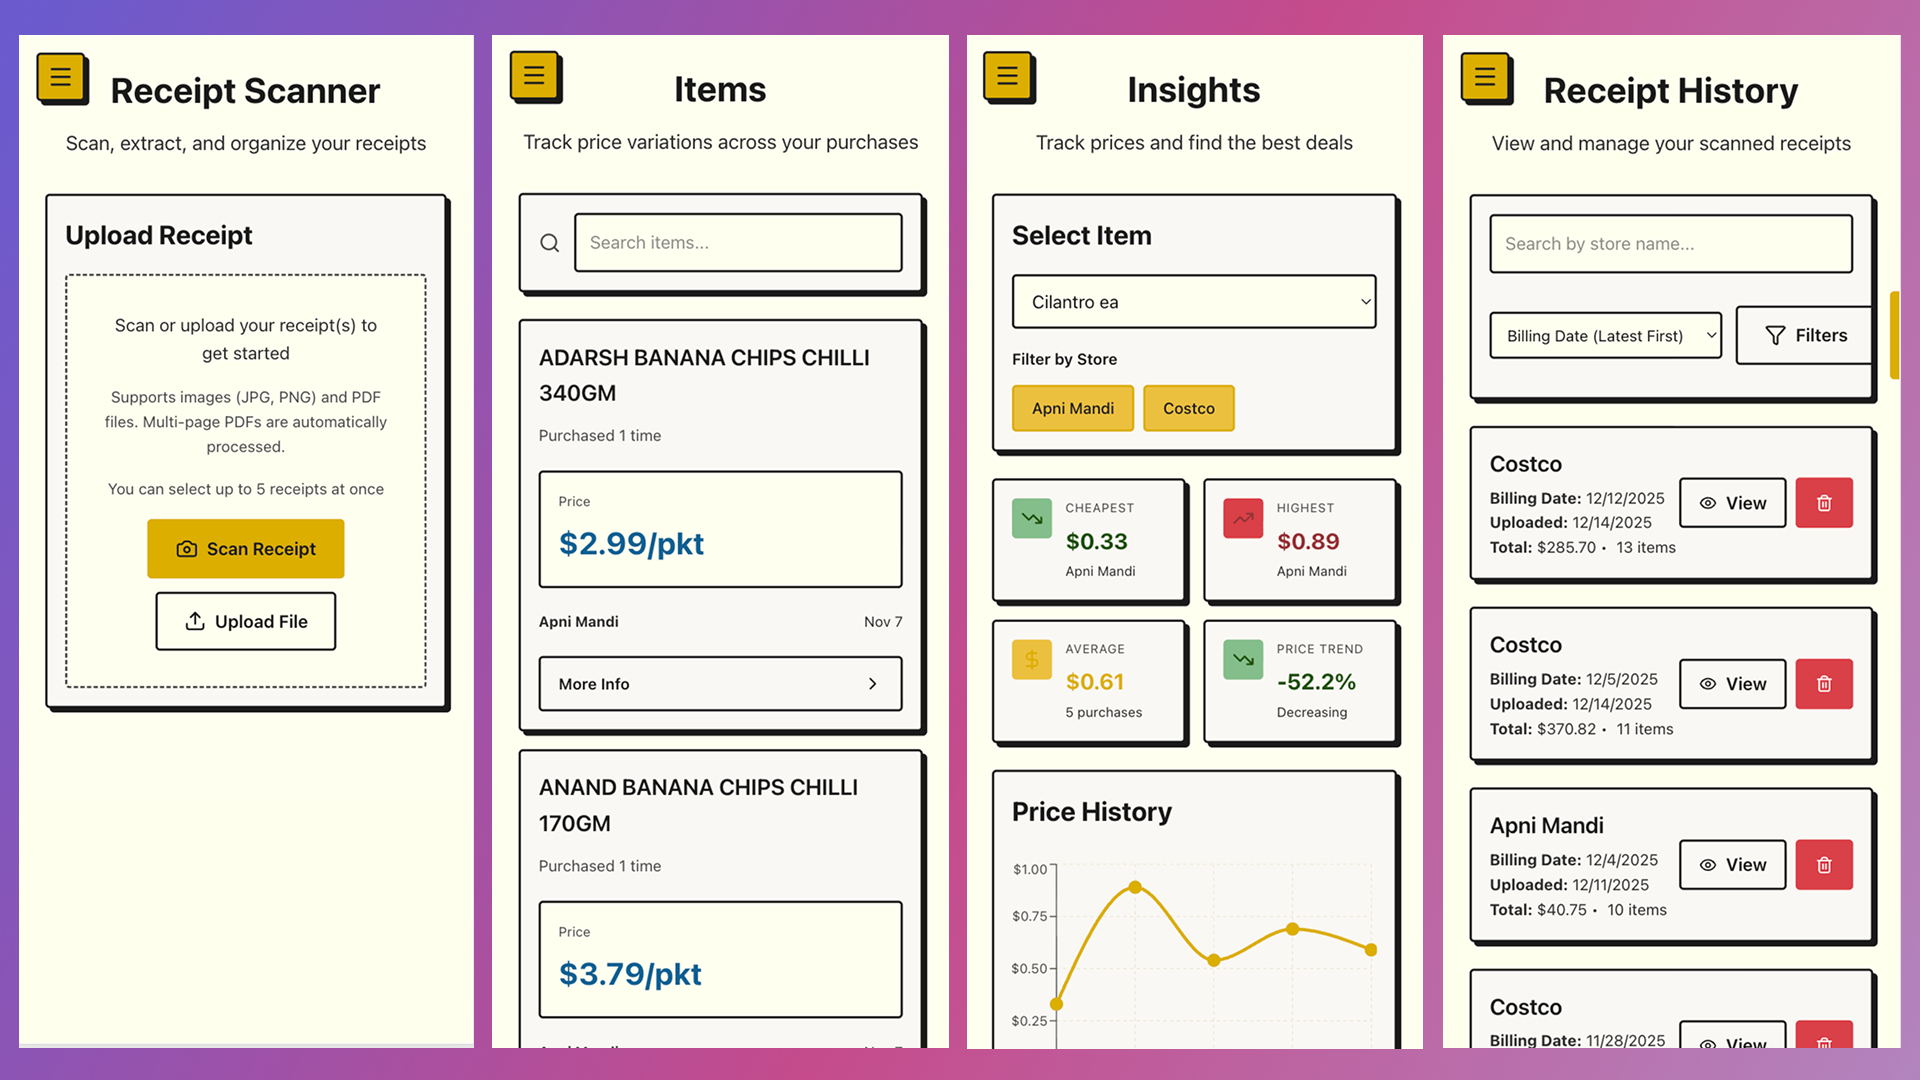
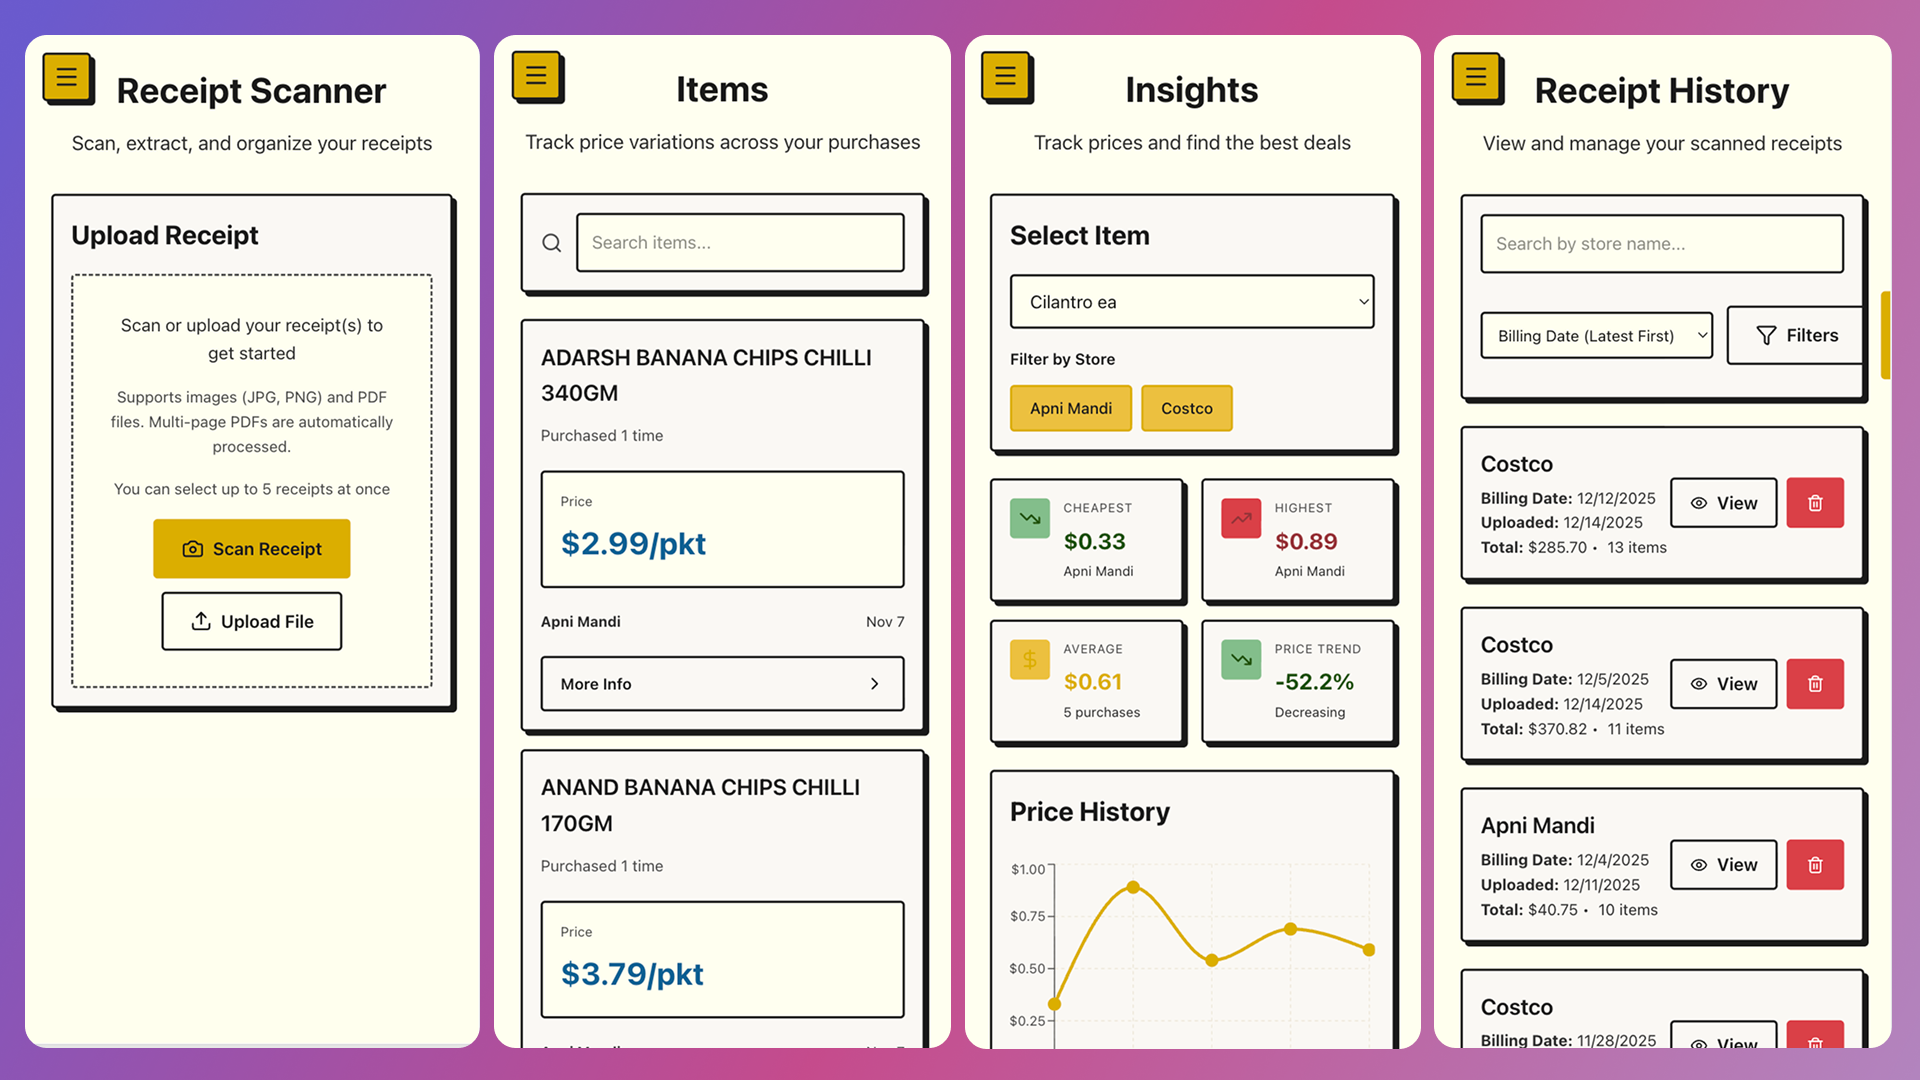
Add image viewing functionality and update image URL handling
- Introduced a modal to view full-size project images when clicked.
- Updated ProjectCard component to include a button overlay for image viewing.
- Changed imageUrl input type to text in both Add and Edit Project modals for better compatibility.
- Enhanced updateProject function to log image URL processing.
- Refactored project update logic to streamline image URL handling.

diff --git a/app/landing-content.tsx b/app/landing-content.tsx
@@ -193,6 +193,7 @@ function ProjectCard({
 }) {
   const [deleting, setDeleting] = useState(false);
   const [editOpen, setEditOpen] = useState(false);
+  const [imageOpen, setImageOpen] = useState(false);
 
   async function handleDelete() {
     if (!confirm(`Delete "${project.name}"?`)) return;
@@ -204,15 +205,42 @@ function ProjectCard({
   }
 
   return (
-    <Card className="min-w-0 h-full flex flex-col">
+    <Card className="min-w-0 h-full flex flex-col pt-0">
       <div className="w-full aspect-video overflow-hidden rounded-t-xl shrink-0 bg-muted">
         {project.imageUrl ? (
-          <img
-            src={project.imageUrl}
-            alt=""
-            className="w-full h-full object-cover"
-            loading="lazy"
-          />
+          <>
+            <button
+              type="button"
+              className="relative w-full h-full group cursor-pointer"
+              onClick={() => setImageOpen(true)}
+              aria-label={`View full image for ${project.name}`}
+            >
+              <img
+                src={project.imageUrl}
+                alt=""
+                className="w-full h-full object-cover"
+                loading="lazy"
+              />
+              <div className="absolute inset-0 bg-black/0 group-hover:bg-black/40 transition-colors flex items-center justify-center">
+                <span className="text-white text-sm font-medium opacity-0 group-hover:opacity-100 transition-opacity">
+                  Click to view image
+                </span>
+              </div>
+            </button>
+            <Dialog open={imageOpen} onOpenChange={setImageOpen}>
+              <DialogContent className="max-w-4xl w-[90vw] p-2">
+                <DialogHeader className="sr-only">
+                  <DialogTitle>{project.name}</DialogTitle>
+                  <DialogDescription>Full size project image</DialogDescription>
+                </DialogHeader>
+                <img
+                  src={project.imageUrl}
+                  alt={project.name}
+                  className="w-full h-auto rounded-md"
+                />
+              </DialogContent>
+            </Dialog>
+          </>
         ) : (
           <div className="w-full h-full flex items-center justify-center text-muted-foreground text-sm">
             No image
@@ -475,7 +503,7 @@ function AddProjectModal({
           <Input
             id="add-imageUrl"
             name="imageUrl"
-            type="url"
+            type="text"
             placeholder="https://..."
           />
           <p className="text-xs text-muted-foreground">16:9 project snapshot.</p>
@@ -629,7 +657,7 @@ function EditProjectModal({
           <Input
             id="edit-imageUrl"
             name="imageUrl"
-            type="url"
+            type="text"
             defaultValue={project.imageUrl}
             placeholder="https://..."
           />

diff --git a/scripts/backfill-image-url.js b/scripts/backfill-image-url.js
@@ -1,0 +1,53 @@
+/**
+ * Backfill imageUrl on all project documents in MongoDB.
+ * Sets imageUrl to "" for any document that doesn't have the field.
+ * Safe to run multiple times. Requires MONGODB_URI in .env.local.
+ *
+ * Usage (from project root):
+ *   node scripts/backfill-image-url.js
+ */
+
+const path = require("path");
+const fs = require("fs");
+const mongoose = require("mongoose");
+
+const envPath = path.resolve(__dirname, "..", ".env.local");
+if (fs.existsSync(envPath)) {
+  const content = fs.readFileSync(envPath, "utf8");
+  content.split("\n").forEach((line) => {
+    const match = line.match(/^([^#=]+)=(.*)$/);
+    if (match) {
+      const key = match[1].trim();
+      const value = match[2].trim().replace(/^["']|["']$/g, "");
+      process.env[key] = value;
+    }
+  });
+}
+
+const MONGODB_URI = process.env.MONGODB_URI;
+if (!MONGODB_URI) {
+  console.error("MONGODB_URI is not set. Add it to .env.local");
+  process.exit(1);
+}
+
+async function main() {
+  await mongoose.connect(MONGODB_URI);
+  const db = mongoose.connection.db;
+  const collection = db.collection("projects");
+
+  const result = await collection.updateMany(
+    { $or: [{ imageUrl: { $exists: false } }, { imageUrl: null }] },
+    { $set: { imageUrl: "" } }
+  );
+
+  console.log(
+    `Backfill complete: ${result.modifiedCount} document(s) updated with imageUrl.`
+  );
+  await mongoose.disconnect();
+  process.exit(0);
+}
+
+main().catch((err) => {
+  console.error(err);
+  process.exit(1);
+});

diff --git a/lib/models/Project.ts b/lib/models/Project.ts
@@ -177,21 +177,22 @@ export async function updateProject(
 ): Promise<Project | null> {
   await connectDb();
   if (!mongoose.Types.ObjectId.isValid(id)) return null;
+  const update: Record<string, unknown> = {
+    name: input.name.trim(),
+    description: input.description.trim(),
+    imageUrl: (input.imageUrl ?? "").toString().trim(),
+    prdUrl: input.prdUrl?.trim() ?? "",
+    pptUrl: input.pptUrl?.trim() ?? "",
+    githubUrl: input.githubUrl?.trim() ?? "",
+    demoUrl: input.demoUrl?.trim() ?? "",
+    prdEnabled: input.prdEnabled !== false,
+    pptEnabled: input.pptEnabled !== false,
+    githubEnabled: input.githubEnabled !== false,
+    demoEnabled: input.demoEnabled !== false,
+  };
   const doc = await ProjectModel.findByIdAndUpdate(
     id,
-    {
-      name: input.name.trim(),
-      description: input.description.trim(),
-      imageUrl: input.imageUrl?.trim() ?? "",
-      prdUrl: input.prdUrl?.trim() ?? "",
-      pptUrl: input.pptUrl?.trim() ?? "",
-      githubUrl: input.githubUrl?.trim() ?? "",
-      demoUrl: input.demoUrl?.trim() ?? "",
-      prdEnabled: input.prdEnabled !== false,
-      pptEnabled: input.pptEnabled !== false,
-      githubEnabled: input.githubEnabled !== false,
-      demoEnabled: input.demoEnabled !== false,
-    },
+    { $set: update },
     { new: true }
   ).lean();
   if (!doc) return null;

diff --git a/app/actions/projects.ts b/app/actions/projects.ts
@@ -127,10 +127,14 @@ export async function updateProject(
     return { success: false, error: "Name and description are required." };
   }
 
+  const rawImageUrl = formData.get("imageUrl");
+  const imageUrl = (rawImageUrl as string)?.trim() ?? "";
+  console.log("[updateProject] projectId:", projectId, "| imageUrl raw:", JSON.stringify(rawImageUrl), "| imageUrl resolved:", JSON.stringify(imageUrl));
+
   const input: CreateProjectInput = {
     name,
     description,
-    imageUrl: (formData.get("imageUrl") as string)?.trim() || undefined,
+    imageUrl,
     prdUrl: (formData.get("prdUrl") as string)?.trim() || undefined,
     pptUrl: (formData.get("pptUrl") as string)?.trim() || undefined,
     githubUrl: (formData.get("githubUrl") as string)?.trim() || undefined,
@@ -143,6 +147,7 @@ export async function updateProject(
 
   try {
     const updated = await updateProjectDb(projectId, input);
+    console.log("[updateProject] result:", updated ? "saved" : "not found", "| imageUrl in input:", JSON.stringify(input.imageUrl));
     return updated ? { success: true } : { success: false, error: "Project not found." };
   } catch (err) {
     console.error(err);

diff --git a/scripts/README.md b/scripts/README.md
@@ -22,3 +22,15 @@ NEW_PASSWORD=YourNewPassword123 node scripts/reset-password.js
 - If the admin user doesn't exist yet, the script will create it with the password you provide.
 
 After running, sign in with the admin username and the new password.
+
+## backfill-image-url.js
+
+Adds the `imageUrl` field to all existing project documents in MongoDB (set to `""` if missing). Run this once after adding the image URL feature so that every project document has the field and edits persist correctly.
+
+**Usage** (from project root):
+
+```bash
+node scripts/backfill-image-url.js
+```
+
+**Requirements:** `MONGODB_URI` in `.env.local`. Safe to run multiple times.
